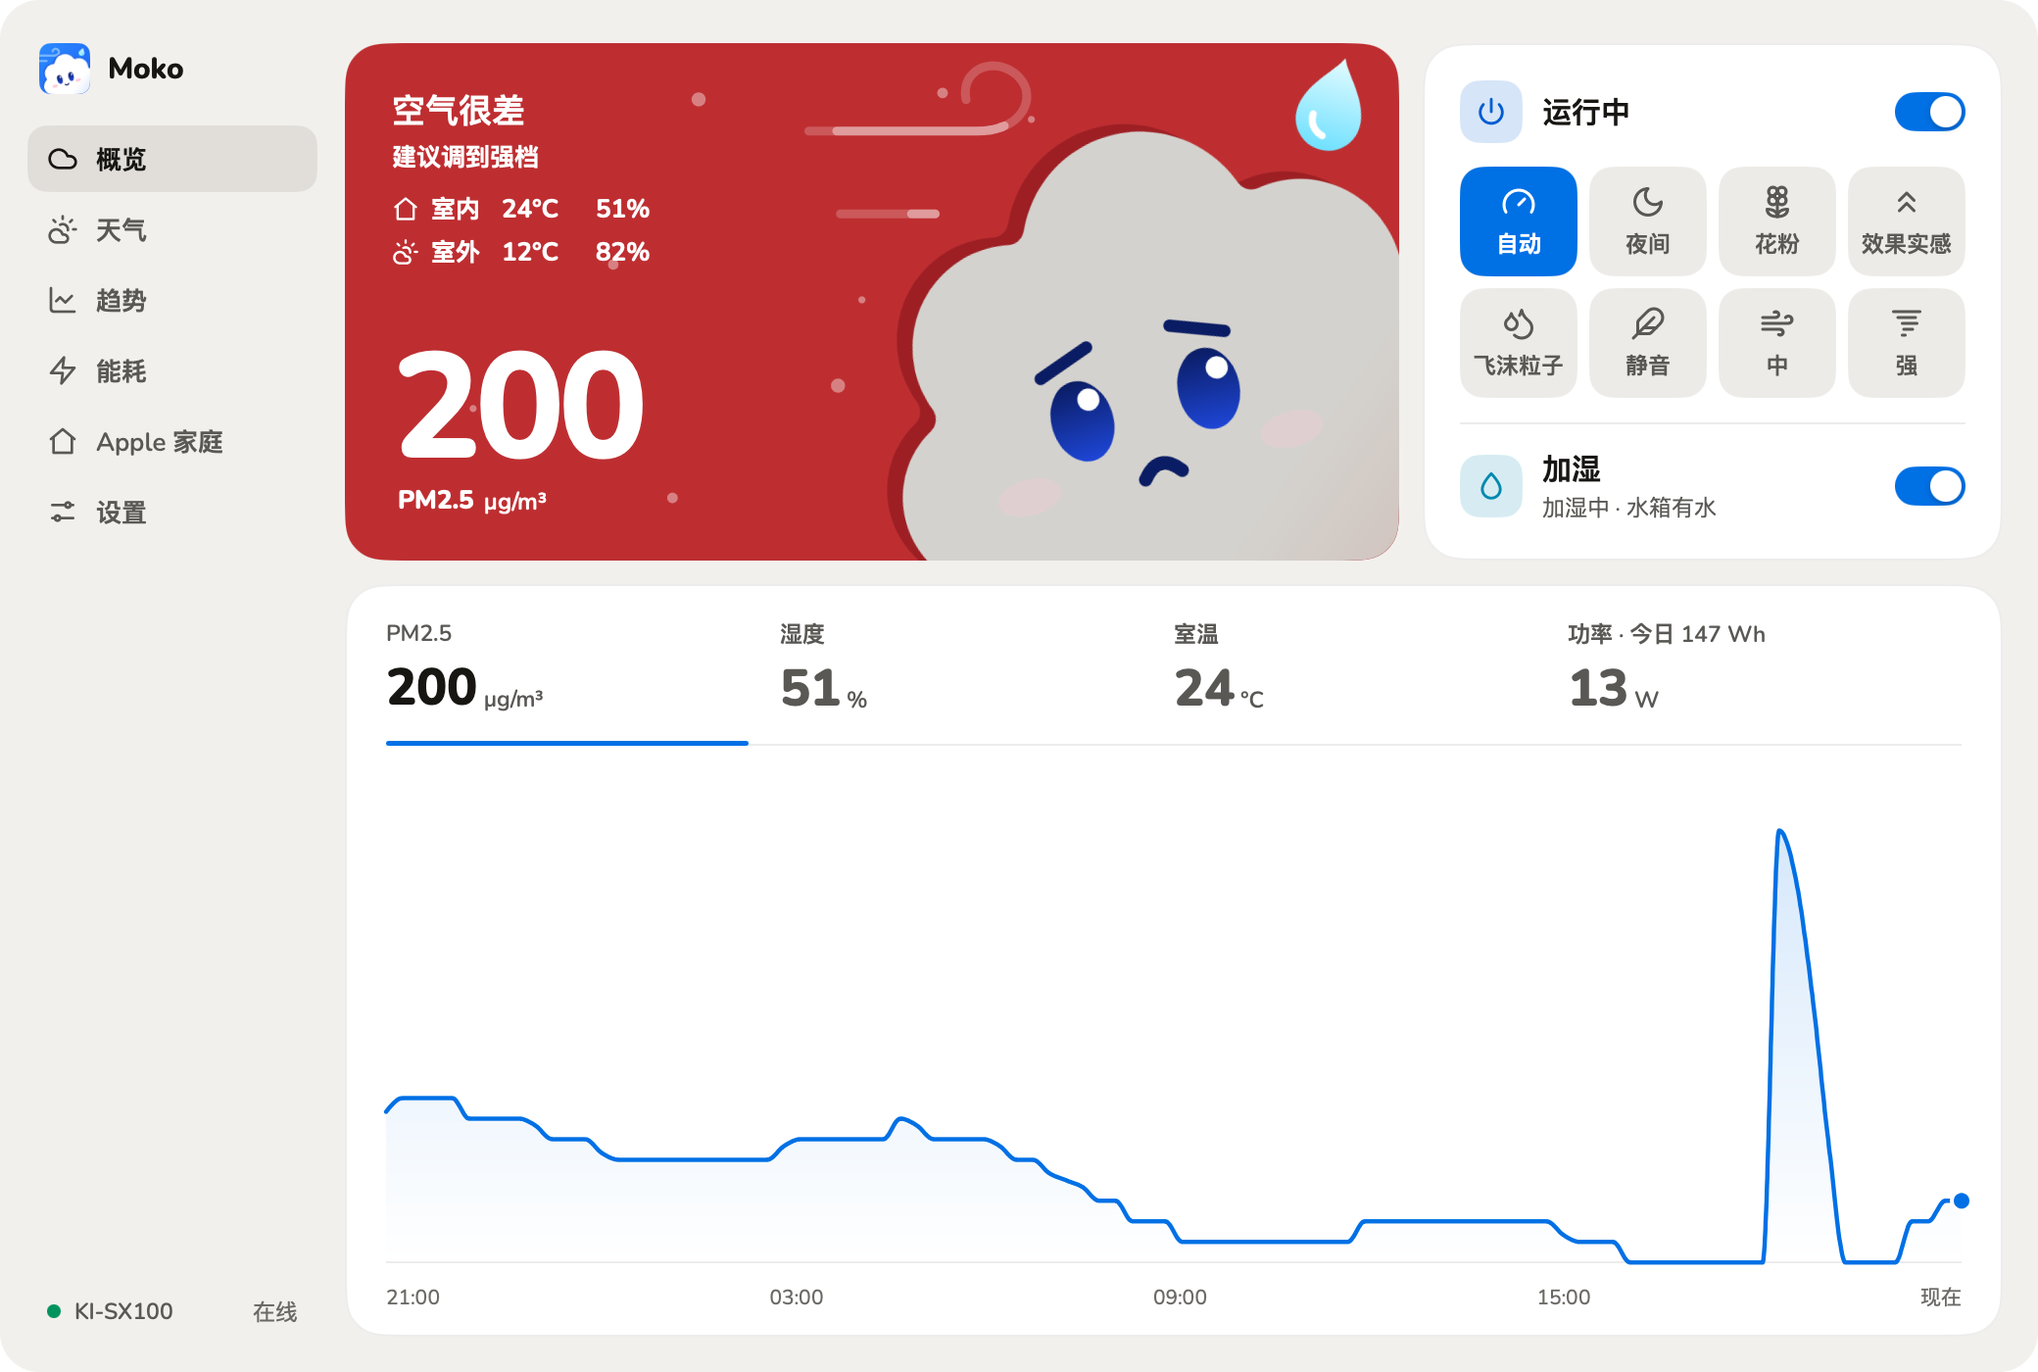
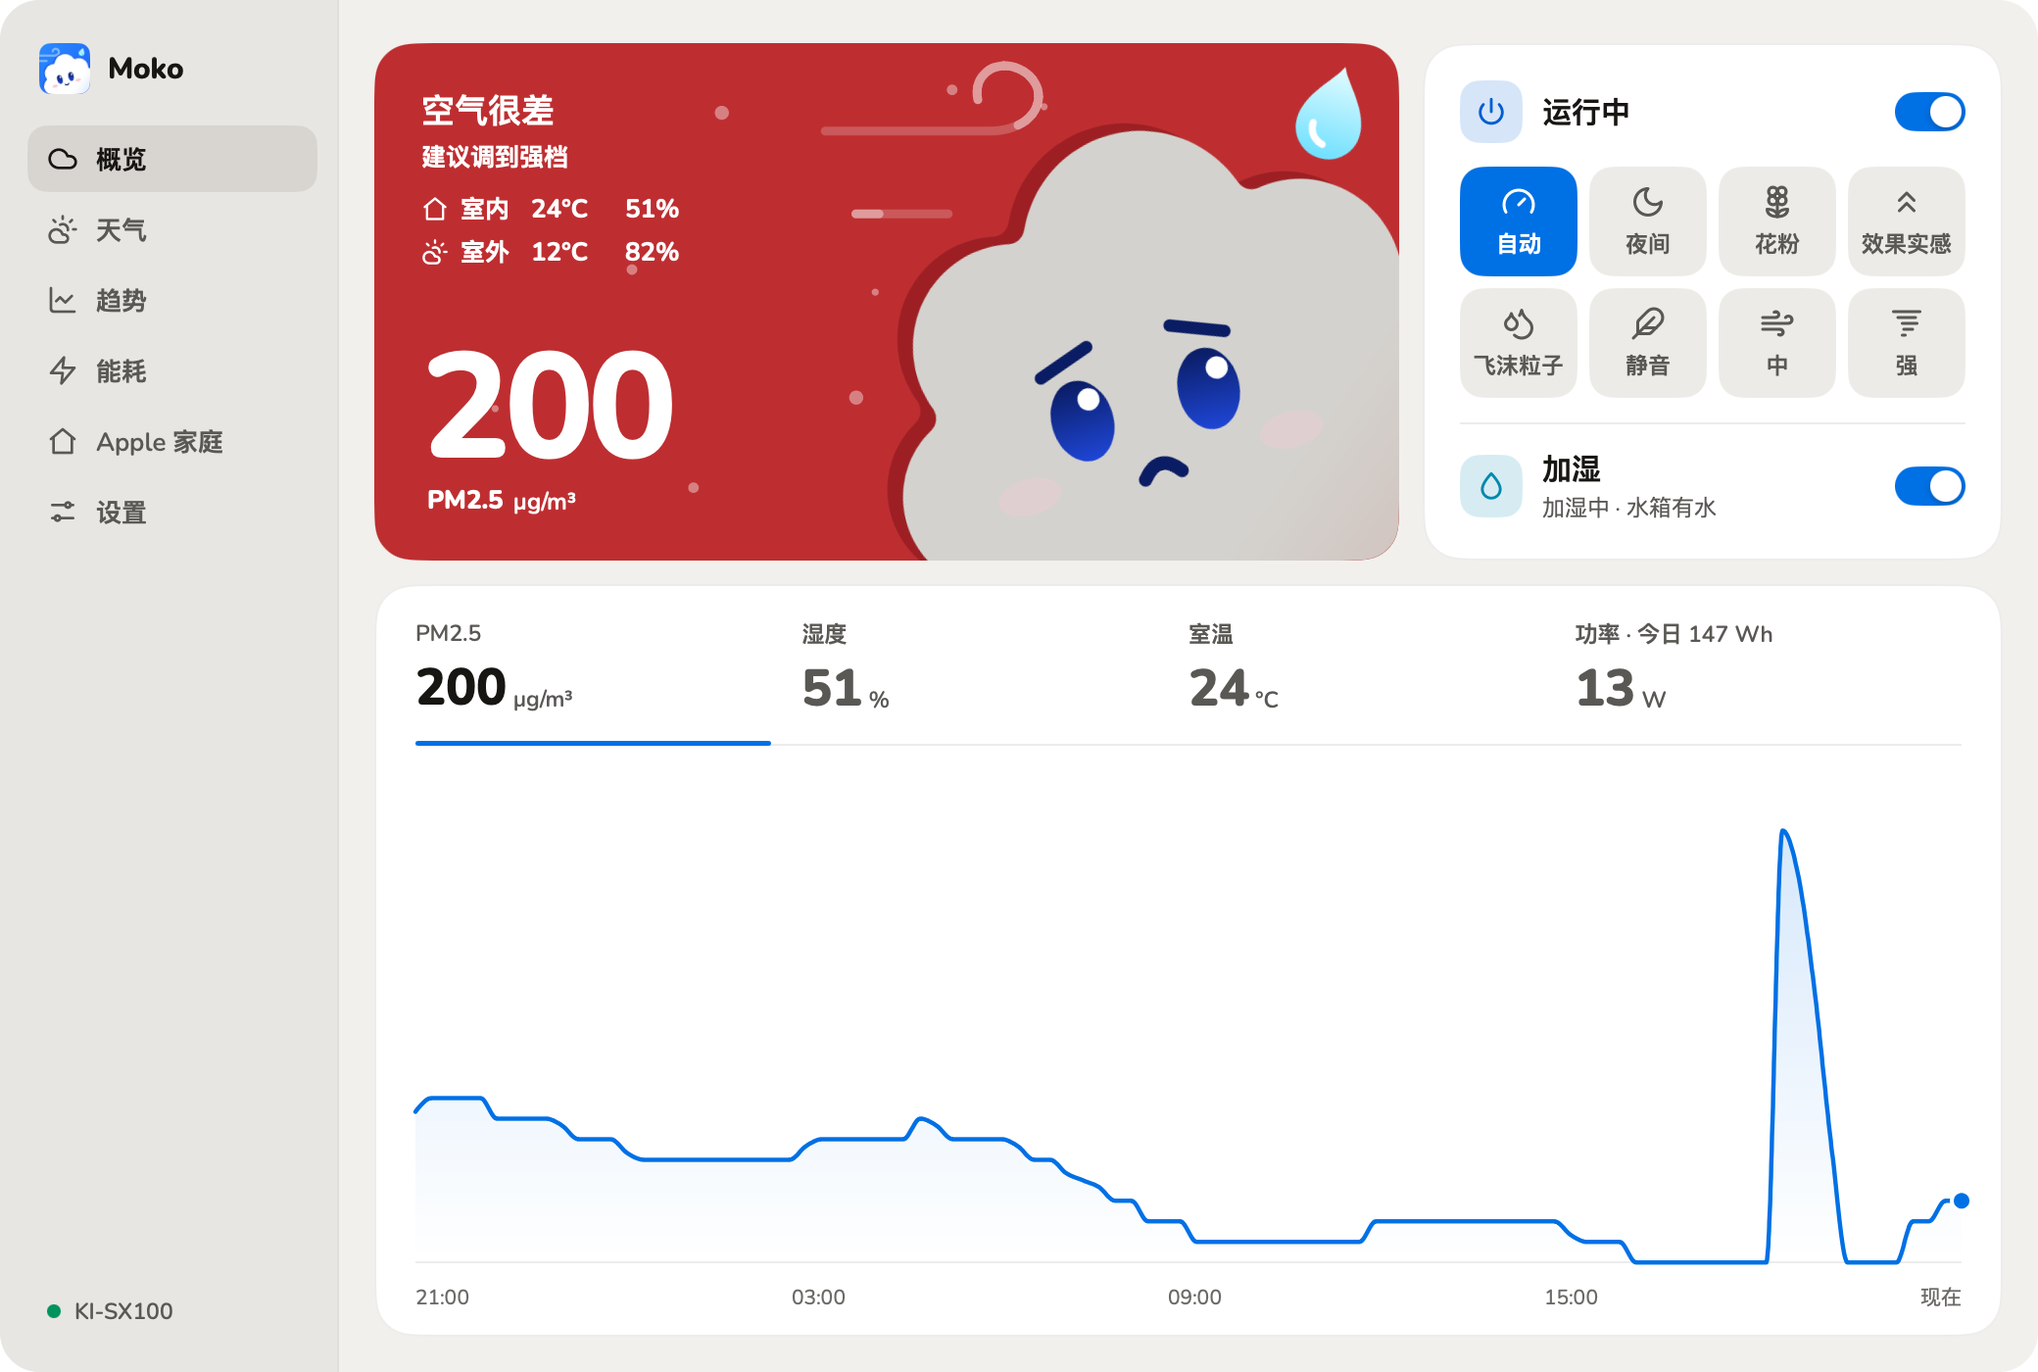
Moko 0.1.1
Switches for open at login, Apple Home and the weather jumped instead of
sliding: a system call held the main thread, or the page rearranged, during
the knob's slide. What a switch changes now waits for it to finish.

The sidebar has its own color and a thin line beside it, and shows the
device's state by its light alone.

diff --git a/site/index.html b/site/index.html
@@ -239,7 +239,7 @@ footer p + p { margin-top: 4px; }
     <section>
       <picture class="shot">
         <source media="(prefers-color-scheme: dark)" srcset="img/home-paired-dark.webp">
-        <img src="img/home-paired-light.webp" width="1760" height="1180" alt="Apple 家庭页" loading="lazy" data-alt="altHome">
+        <img src="img/home-paired-light.webp" width="1730" height="1180" alt="Apple 家庭页" loading="lazy" data-alt="altHome">
       </picture>
       <h3 data-t="homeTitle">接入 Apple 家庭</h3>
       <p data-t="homeBody">用“家庭”App 和 Siri 控制净化和加湿，查看空气质量和滤网寿命。</p>
@@ -247,7 +247,7 @@ footer p + p { margin-top: 4px; }
     <section>
       <picture class="shot">
         <source media="(prefers-color-scheme: dark)" srcset="img/settings-dark.webp">
-        <img src="img/settings-light.webp" width="1760" height="1180" alt="设置页和耗材" loading="lazy" data-alt="altSettings">
+        <img src="img/settings-light.webp" width="1730" height="1180" alt="设置页和耗材" loading="lazy" data-alt="altSettings">
       </picture>
       <h3 data-t="supTitle">耗材一目了然</h3>
       <p data-t="supBody">五项耗材的剩余寿命，和 COCORO AIR 显示的一致。</p>

diff --git a/internal/view/window.go b/internal/view/window.go
@@ -14,11 +14,12 @@ func (v *View) Main(c *ui.Context) {
 	k := v.setup(c)
 	ui.Row(c).Fill().AlignItems(ui.Stretch).Background(k.bg).TextColor(k.text).FontSize(13).Lang(langTag()).Children(func() {
 		v.sidebar(c.Key("side"), k)
+		ui.Box(c.Key("divider")).Width(1).Background(k.line)
 		bar := c.TitleBar()
 		top := max(bar.Height, 22)
 		ui.Box(c.Key("content")).Grow(1).Basis(0).Children(func() {
 			// A page coming in rises a little as it fades in; the one it replaces just goes.
-			ui.Column(c.Key(v.Page)).Fill().Padding(top, 18, 18, 4).Gap(12).Transition(ui.ElementTransition{
+			ui.Column(c.Key(v.Page)).Fill().Padding(top, 18, 18, 18).Gap(12).Transition(ui.ElementTransition{
 				Duration: 240 * time.Millisecond, Ease: ui.CubicBezier(0.32, 0.72, 0, 1), Enter: &ui.Motion{Y: 8},
 			}).Children(func() {
 				switch {
@@ -51,7 +52,7 @@ const (
 
 func (v *View) sidebar(c *ui.Context, k pal) {
 	bar := c.TitleBar()
-	ui.Column(c).Width(172).Background(k.bg).Cache().Padding(max(bar.Height+8, 22), 10, 18, 14).Children(func() {
+	ui.Column(c).Width(172).Background(k.side).Cache().Padding(max(bar.Height+8, 22), 10, 18, 14).Children(func() {
 		ui.Box(c.Key("drag")).Absolute().Top(0).Left(0).Right(0).Height(max(bar.Height, 12)).DragWindow()
 		ui.Row(c.Key("brand")).Gap(9).AlignItems(ui.Center).Padding(0, 6, 16, 6).Children(func() {
 			brandMark(c, 26)
@@ -104,19 +105,19 @@ func (v *View) nav(c *ui.Context, k pal, page Page, ic *ui.SVG, label string) {
 	})
 }
 
-// deviceRow says at the foot of the sidebar whether the device can be reached.
+// deviceRow says at the foot of the sidebar whether the device can be reached: its dot
+// does, and the word is there for pointing at it and for assistive technology.
 func (v *View) deviceRow(c *ui.Context, k pal) {
-	label, dot := i18n.T("搜索中", "検索中", "Searching"), k.faint
+	state, dot := i18n.T("搜索中", "検索中", "Searching"), k.faint
 	switch v.M.Snap.Phase {
 	case device.PhaseOnline:
-		label, dot = i18n.T("在线", "接続中", "Online"), k.ok
+		state, dot = i18n.T("在线", "接続中", "Online"), k.ok
 	case device.PhaseOffline:
-		label, dot = i18n.T("离线", "オフライン", "Offline"), k.warn
+		state, dot = i18n.T("离线", "オフライン", "Offline"), k.warn
 	}
-	ui.Row(c).Padding(0, 10).Height(26).Gap(7).AlignItems(ui.Center).Children(func() {
+	ui.Row(c).Padding(0, 10).Height(26).Gap(7).AlignItems(ui.Center).Label("KI-SX100 · " + state).Tooltip(state).Children(func() {
 		mark := ui.Box(c).Size(7, 7).Radius(3.5)
 		mark.Background(mark.AnimateColor("dot", dot, ui.Animation{Duration: 400 * time.Millisecond}))
-		ui.Text(c, "KI-SX100").FontSize(11.5).FontWeight(600).TextColor(k.muted).Grow(1).NoWrap()
-		ui.Text(c, label).FontSize(11.5).TextColor(k.faint).NoWrap()
+		ui.Text(c, "KI-SX100").FontSize(11.5).FontWeight(600).TextColor(k.muted).NoWrap()
 	})
 }

diff --git a/internal/view/view_test.go b/internal/view/view_test.go
@@ -109,7 +109,7 @@ func click(t *testing.T, tt *ui.Tester, label string) {
 func TestOverviewShowsTheReadings(t *testing.T) {
 	v, _ := newView(online())
 	tt := tester(t, v.Main, 1040, 700)
-	for _, s := range []string{"空气很清新", "PM2.5", "24", "°C", "51", "13", "运行中", "加湿中 · 水箱有水", "自动", "夜间", "花粉", "效果实感", "飞沫粒子", "静音", "中", "强", "在线"} {
+	for _, s := range []string{"空气很清新", "PM2.5", "24", "°C", "51", "13", "运行中", "加湿中 · 水箱有水", "自动", "夜间", "花粉", "效果实感", "飞沫粒子", "静音", "中", "强", "KI-SX100"} {
 		if !tt.HasText(s) {
 			t.Errorf("no %q", s)
 		}
@@ -386,6 +386,11 @@ func TestHomePage(t *testing.T) {
 	m.HomeEnabled = true
 	m.Home = homekit.Status{Running: true, Code: "123-45-678", SetupURI: "X-HM://0023ISYWYABCD"}
 	tt.Frame()
+	if tt.HasText("123-45-678") {
+		t.Error("the page rearranged before the switch had slid")
+	}
+	tt.Advance(400 * time.Millisecond)
+	tt.Frame()
 	for _, s := range []string{"123-45-678", "提示“未认证配件”时选“仍然添加”", "防止电脑自动睡眠"} {
 		if !tt.HasText(s) {
 			t.Errorf("no %q", s)
@@ -511,6 +516,15 @@ func TestPriceSteps(t *testing.T) {
 	}
 }
 
+func TestSidebarSaysOnlineByItsDot(t *testing.T) {
+	v, _ := newView(online())
+	tt := tester(t, v.Main, 1040, 700)
+	// Assistive technology still gets the word, in the row's label.
+	if texts := tt.Texts(); !slices.Contains(texts, "KI-SX100") || slices.Contains(texts, "在线") {
+		t.Errorf("showing %q", texts)
+	}
+}
+
 func TestInsideAgainstOutside(t *testing.T) {
 	v, m := newView(online())
 	tt := tester(t, v.Main, 1040, 700)
@@ -564,6 +578,11 @@ func TestWeatherPage(t *testing.T) {
 		}
 	}
 	m.WeatherOff = true
+	tt.Frame()
+	if !tt.HasText("周二") {
+		t.Error("the page rearranged before the switch had slid")
+	}
+	tt.Advance(300 * time.Millisecond)
 	tt.Frame()
 	if tt.HasText("周二") || !tt.HasText("显示室外天气") {
 		t.Error("off: no forecast, and the switch to turn it on")

diff --git a/main.go b/main.go
@@ -444,12 +444,20 @@ func (a *app) bindActions() {
 		a.invalidate()
 	}
 	m.SetOpenAtLogin = func(on bool) {
-		if err := mygo.App.SetOpenAtLogin(on); err != nil {
-			log.Printf("open at login: %v", err)
-			m.Notice = i18n.T("设置失败：打包后的应用才能开机启动", "設定できませんでした", "Could not change that")
-		}
-		m.OpenAtLogin = mygo.App.OpenAtLogin()
+		m.OpenAtLogin = on
 		a.invalidate()
+		// This holds the main thread, for over a second to turn it on, so it waits for the
+		// switch to slide, and the switch goes back if it fails.
+		time.AfterFunc(switchSlide, func() {
+			mygo.RunOnMain(func() {
+				if err := mygo.App.SetOpenAtLogin(m.OpenAtLogin); err != nil {
+					log.Printf("open at login: %v", err)
+					m.Notice = i18n.T("设置失败：打包后的应用才能开机启动", "設定できませんでした", "Could not change that")
+				}
+				m.OpenAtLogin = mygo.App.OpenAtLogin()
+				a.invalidate()
+			})
+		})
 	}
 	m.SetWaterAlert = func(on bool) {
 		a.cfg.NoWaterOff, m.WaterAlert = !on, on
@@ -521,6 +529,9 @@ func (a *app) bindActions() {
 	m.OpenURL = func(url string) { _ = mygo.Shell.OpenExternal(url) }
 	m.Quit = mygo.App.Quit
 }
+
+// switchSlide is how long a switch's knob takes to slide, with some to spare.
+const switchSlide = 220 * time.Millisecond
 
 // weatherEvery is how often the weather is read. The forecast changes more slowly.
 const weatherEvery = 20 * time.Minute
@@ -644,13 +655,19 @@ func (a *app) allowFirewall() {
 func (a *app) setHomeEnabled(on bool) {
 	a.cfg.HomeKit, a.m.HomeEnabled = on, on
 	a.cfg.save()
-	if on {
-		a.startHome()
-	} else {
-		a.hk.Stop()
-	}
-	a.applyKeepAwake()
-	a.refreshHome()
+	a.invalidate()
+	// Whether it is paired changes the page, so it waits for the switch to slide.
+	time.AfterFunc(switchSlide, func() {
+		mygo.RunOnMain(func() {
+			if a.cfg.HomeKit {
+				a.startHome()
+				return
+			}
+			a.hk.Stop()
+			a.applyKeepAwake()
+			a.refreshHome()
+		})
+	})
 }
 
 func (a *app) startHome() {

diff --git a/internal/view/weather.go b/internal/view/weather.go
@@ -152,9 +152,11 @@ func (v *View) weatherPage(c *ui.Context, k pal) {
 		sub += fmt.Sprintf(i18n.T(" · 更新于 %s", " · %s 更新", " · updated %s"), r.At.Format("15:04"))
 	}
 	pageTitle(c, k, i18n.T("天气", "天気", "Weather"), sub)
-	ui.Scroll(c.Key("scroll")).Grow(1).Gap(12).Children(func() {
+	page := ui.Scroll(c.Key("scroll")).Grow(1).Gap(12)
+	off := settled(page, m.WeatherOff)
+	page.Children(func() {
 		switch {
-		case m.WeatherOff:
+		case off:
 		case r == nil:
 			card(c.Key("wait"), k).Padding(28).Center().Children(func() {
 				ui.Text(c, i18n.T("正在读取天气，也可以在下面指定地点", "天気を読み込み中です。下で場所を指定することもできます", "Reading the weather. You can also choose a place below")).FontSize(12.5).TextColor(k.muted)
@@ -167,7 +169,7 @@ func (v *View) weatherPage(c *ui.Context, k pal) {
 			weatherHours(c.Key("hours"), k, r)
 			weatherDays(c.Key("days"), k, r)
 		}
-		v.weatherSettings(c.Key("settings"), k)
+		v.weatherSettings(c.Key("settings"), k, off)
 	})
 }
 
@@ -253,8 +255,8 @@ func weatherDays(c *ui.Context, k pal, r *weather.Report) {
 	})
 }
 
-// weatherSettings turns the weather on or off, and says where.
-func (v *View) weatherSettings(c *ui.Context, k pal) {
+// weatherSettings turns the weather on or off, and says where, unless it is off.
+func (v *View) weatherSettings(c *ui.Context, k pal, off bool) {
 	m := v.M
 	card(c, k).Children(func() {
 		settingRow(c.Key("on"), k, i18n.T("显示室外天气", "屋外の天気を表示", "Show the weather outside"), i18n.T("会访问网络，其余功能都只走局域网", "インターネットを使います。ほかの機能はローカルネットワークのみです", "Uses the internet; everything else stays on the local network"), func() {
@@ -263,7 +265,7 @@ func (v *View) weatherSettings(c *ui.Context, k pal) {
 				m.SetWeatherOn(want)
 			}
 		})
-		if m.WeatherOff {
+		if off {
 			return
 		}
 		hairline(c, k)

diff --git a/internal/view/home.go b/internal/view/home.go
@@ -50,8 +50,10 @@ func qrSVG(text string) *ui.SVG {
 func (v *View) home(c *ui.Context, k pal) {
 	m := v.M
 	pageTitle(c, k, i18n.T("Apple 家庭", "Apple ホーム", "Apple Home"), i18n.T("在“家庭”App、Siri 和自动化里控制净化器", "「ホーム」アプリ、Siri、オートメーションで操作できます", "Control the purifier from the Home app, Siri and automations"))
-	paired := m.HomeEnabled && m.Home.Paired
-	ui.Scroll(c.Key("scroll")).Grow(1).Gap(14).Children(func() {
+	page := ui.Scroll(c.Key("scroll")).Grow(1).Gap(14)
+	enabled := settled(page, m.HomeEnabled)
+	paired := enabled && m.Home.Paired
+	page.Children(func() {
 		if paired {
 			v.homePaired(c.Key("paired"), k)
 		}
@@ -62,7 +64,7 @@ func (v *View) home(c *ui.Context, k pal) {
 					m.SetHomeEnabled(want)
 				}
 			})
-			if m.HomeEnabled {
+			if enabled {
 				hairline(c, k)
 				settingRow(c, k, i18n.T("防止电脑自动睡眠", "コンピュータのスリープを防ぐ", "Keep this computer awake"), i18n.T("电脑睡眠或应用退出时，“家庭”里会显示“无响应”", "スリープ中やアプリ終了中は「ホーム」に「応答なし」と表示されます", "While it sleeps or the app is closed, Home shows No Response"), func() {
 					want := m.KeepAwake
@@ -89,9 +91,9 @@ func (v *View) home(c *ui.Context, k pal) {
 		}
 		switch {
 		case paired:
-		case m.HomeEnabled && m.Home.SetupURI != "":
+		case enabled && m.Home.SetupURI != "":
 			v.homePairing(c.Key("pairing"), k)
-		case m.HomeEnabled:
+		case enabled:
 			ui.Row(c.Key("starting")).Gap(8).Padding(16).Children(func() {
 				ui.Spinner(c).Label(i18n.T("启动中", "起動中", "Starting"))
 				ui.Text(c, i18n.T("正在启动", "起動中", "Starting")).TextColor(k.muted)

diff --git a/internal/view/palette.go b/internal/view/palette.go
@@ -26,7 +26,8 @@ func init() {
 // the rest.
 type pal struct {
 	dark                  bool
-	bg, card, card2, line ui.Color
+	bg, side, card, card2 ui.Color
+	line                  ui.Color
 	border, hover         ui.Color
 	text, muted, faint    ui.Color
 	accent, ink, soft     ui.Color // ink is the accent as text and icons
@@ -40,7 +41,7 @@ func palette(dark bool) pal {
 	if dark {
 		accent := ui.Oklch(0.68, 0.17, 255)
 		return pal{dark: true,
-			bg: ui.Oklch(0.17, 0.003, 85), card: ui.Oklch(0.215, 0.003, 85), card2: ui.Oklch(0.27, 0.003, 85),
+			bg: ui.Oklch(0.17, 0.003, 85), side: ui.Oklch(0.21, 0.003, 85), card: ui.Oklch(0.215, 0.003, 85), card2: ui.Oklch(0.27, 0.003, 85),
 			line: ui.RGBA(255, 255, 255, 0.08), border: ui.RGBA(255, 255, 255, 0.14), hover: ui.RGBA(255, 255, 255, 0.06),
 			text: ui.Oklch(0.96, 0.003, 85), muted: ui.Oklch(0.74, 0.004, 85), faint: ui.Oklch(0.66, 0.004, 85),
 			accent: accent, ink: ui.Oklch(0.8, 0.12, 255), soft: accent.Alpha(0.18), onAccent: ui.Oklch(0.17, 0.02, 255),
@@ -51,7 +52,7 @@ func palette(dark bool) pal {
 	}
 	accent := ui.Oklch(0.56, 0.2, 255)
 	return pal{
-		bg: ui.Oklch(0.955, 0.005, 85), card: ui.RGB(255, 255, 255), card2: ui.Oklch(0.94, 0.005, 85),
+		bg: ui.Oklch(0.955, 0.005, 85), side: ui.Oklch(0.925, 0.006, 85), card: ui.RGB(255, 255, 255), card2: ui.Oklch(0.94, 0.005, 85),
 		line: ui.RGBA(20, 18, 12, 0.08), border: ui.RGBA(20, 18, 12, 0.16), hover: ui.RGBA(20, 18, 12, 0.05),
 		text: ui.Oklch(0.2, 0.005, 85), muted: ui.Oklch(0.46, 0.006, 85), faint: ui.Oklch(0.52, 0.006, 85),
 		accent: accent, ink: ui.Oklch(0.5, 0.2, 255), soft: accent.Alpha(0.1), onAccent: ui.RGB(255, 255, 255),

diff --git a/internal/view/parts.go b/internal/view/parts.go
@@ -30,6 +30,22 @@ func press(b ui.Element) ui.Element {
 }
 
 // roll shows a number whose digits roll to a new value, up or down as it went.
+// settled is on, late enough for the switch that changes it to have finished sliding: a
+// page that rearranged at once would carry the knob away in the middle of its slide.
+// Turning on takes longer, past switchSlide in main.go: what it turns on has started by
+// then, and the page does not go through a state in between. Turning off comes before it.
+func settled(e ui.Element, on bool) bool {
+	wait := 180 * time.Millisecond
+	if on {
+		wait = 260 * time.Millisecond
+	}
+	at := e.AnimateTo("settled", b2f(on), ui.Animation{Duration: wait})
+	if on {
+		return at >= 0.99
+	}
+	return at > 0.01
+}
+
 func roll(c *ui.Context, s string) ui.Element {
 	e := ui.Text(c, s)
 	prev := ui.Local(e, "prev", func() string { return s })

diff --git a/docs/ui-design.md b/docs/ui-design.md
@@ -65,7 +65,7 @@
 │       │ 0        51%     24°C    13 W      │
 │       │ ━━━━━                              │
 │       │ ~~~~~~~~~~~~~~~~~~~~~~~~~~~~~~~~~~ │
-│ ● 在线 │ 21:00                        现在 │
+│ ● KI-… │ 21:00                        现在 │
 └───────┴────────────────────────────────────┘
 ```
 
@@ -98,7 +98,8 @@
 
 | Token | 深色 | 浅色 | 用途 |
 |---|---|---|---|
-| bg | 0.17 / 0.003 / 85 | 0.955 / 0.005 / 85 | 窗口底色、侧栏 |
+| bg | 0.17 / 0.003 / 85 | 0.955 / 0.005 / 85 | 内容区底色 |
+| side | 0.21 / 0.003 / 85 | 0.925 / 0.006 / 85 | 侧栏，和内容区之间一条细线 |
 | card | 0.215 / 0.003 / 85 | 纯白 | 卡片 |
 | card2 | 0.27 / 0.003 / 85 | 0.94 / 0.005 / 85 | 轨道 |
 | text | 0.96 / 0.003 / 85 | 0.2 / 0.005 / 85 | 主文字 |
@@ -172,6 +173,7 @@
 
 原则：
 
+- 开关的滑块 140 ms。它改变的东西要等它滑完：系统调用（开机启动会卡住主线程一秒多）和启停 Apple 家庭延后 220 ms，页面重新排版（天气、Apple 家庭）关闭时延后 180 ms、打开时延后 260 ms，否则滑块看起来是跳过去的。
 - 只有 Moko 和天空持续在动，且只在 `Draw` 里动（只重绘，不重建视图），限 30 帧。其他静态卡片用 `Cache()`。
 - 风线的亮段按固定步长移动，遮罩循环复用，不会每帧重画。
 - 实测（Apple Silicon）：窗口打开时约 6.5% 个核，隐藏到托盘后约 0%。

diff --git a/CHANGELOG.md b/CHANGELOG.md
@@ -1,5 +1,19 @@
 # Changelog
 
+## 0.1.1
+
+### 中文
+
+- 修复开机时启动、Apple 家庭和天气的开关没有滑动动画的问题，所有开关的表现现在一致。
+- 侧栏和内容区用不同的底色和一条细线分开。
+- 去掉侧栏底部多余的“在线”文字，只留状态指示灯。
+
+### English
+
+- Fixed the switches for open at login, Apple Home and the weather, which jumped instead of sliding. All switches now behave the same.
+- The sidebar now stands apart from the content, with its own color and a thin line between them.
+- Removed the redundant "Online" label at the foot of the sidebar; its status light says it.
+
 ## 0.1.0
 
 ### 中文
